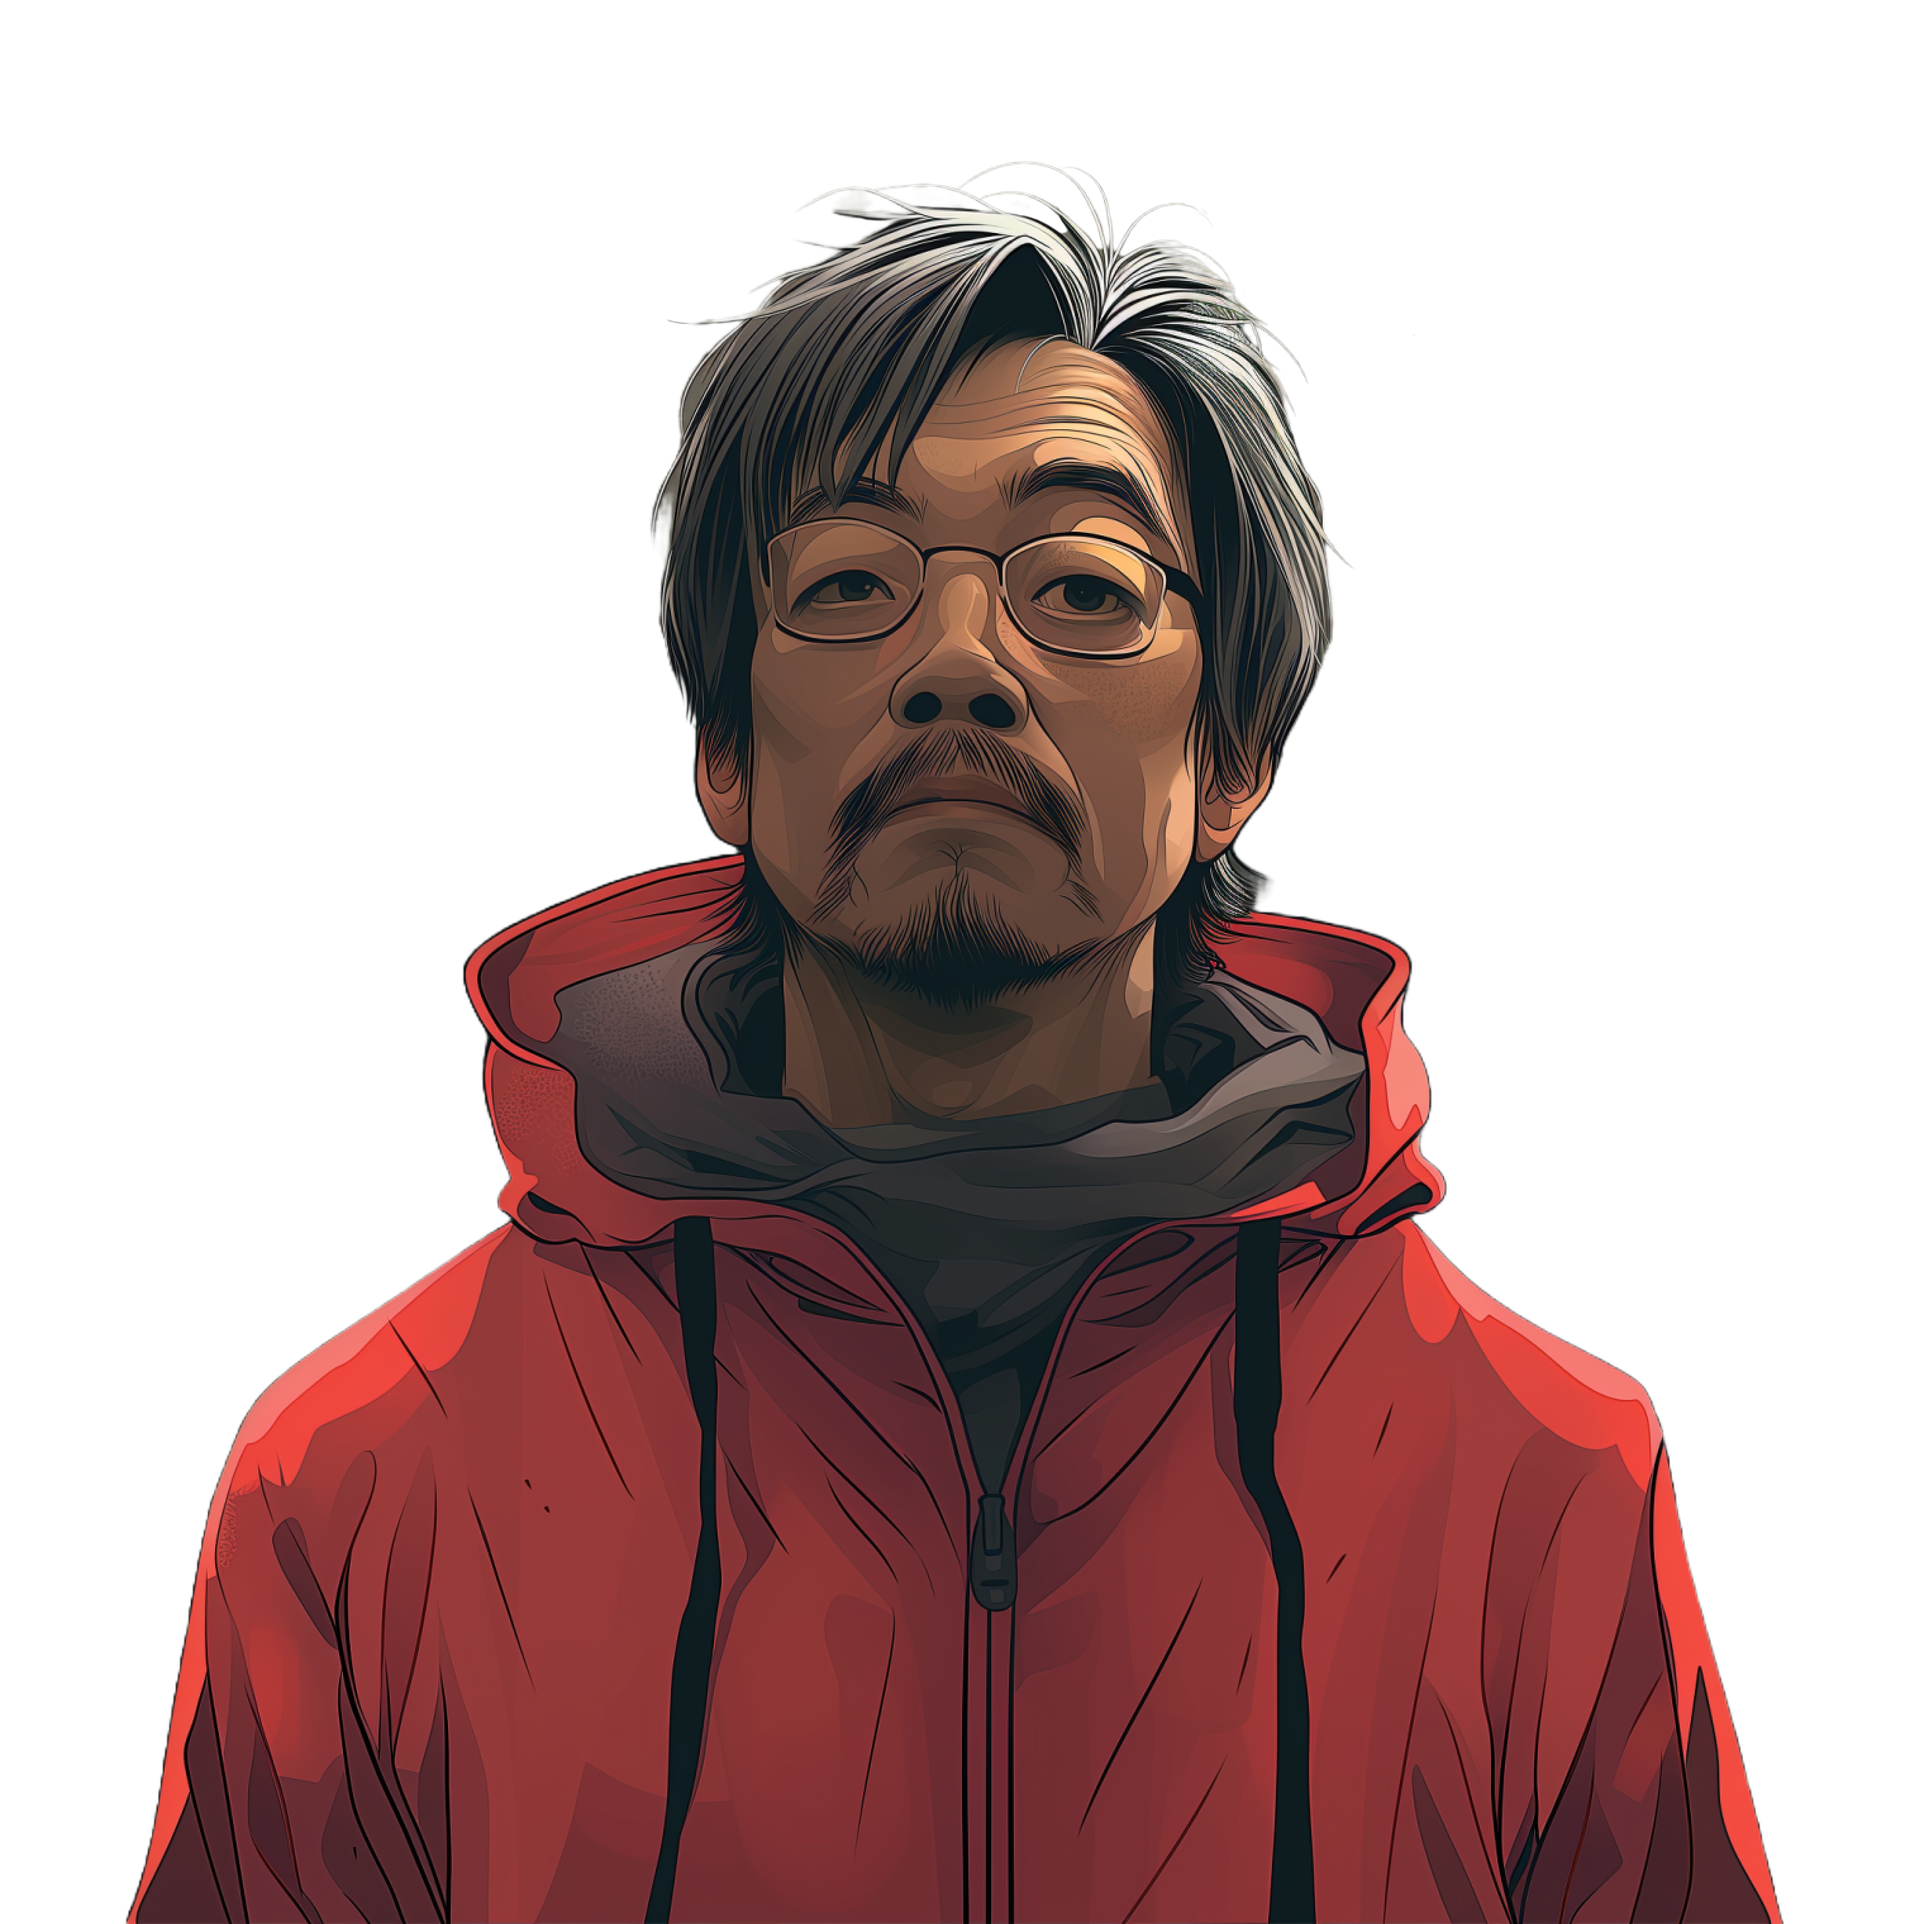
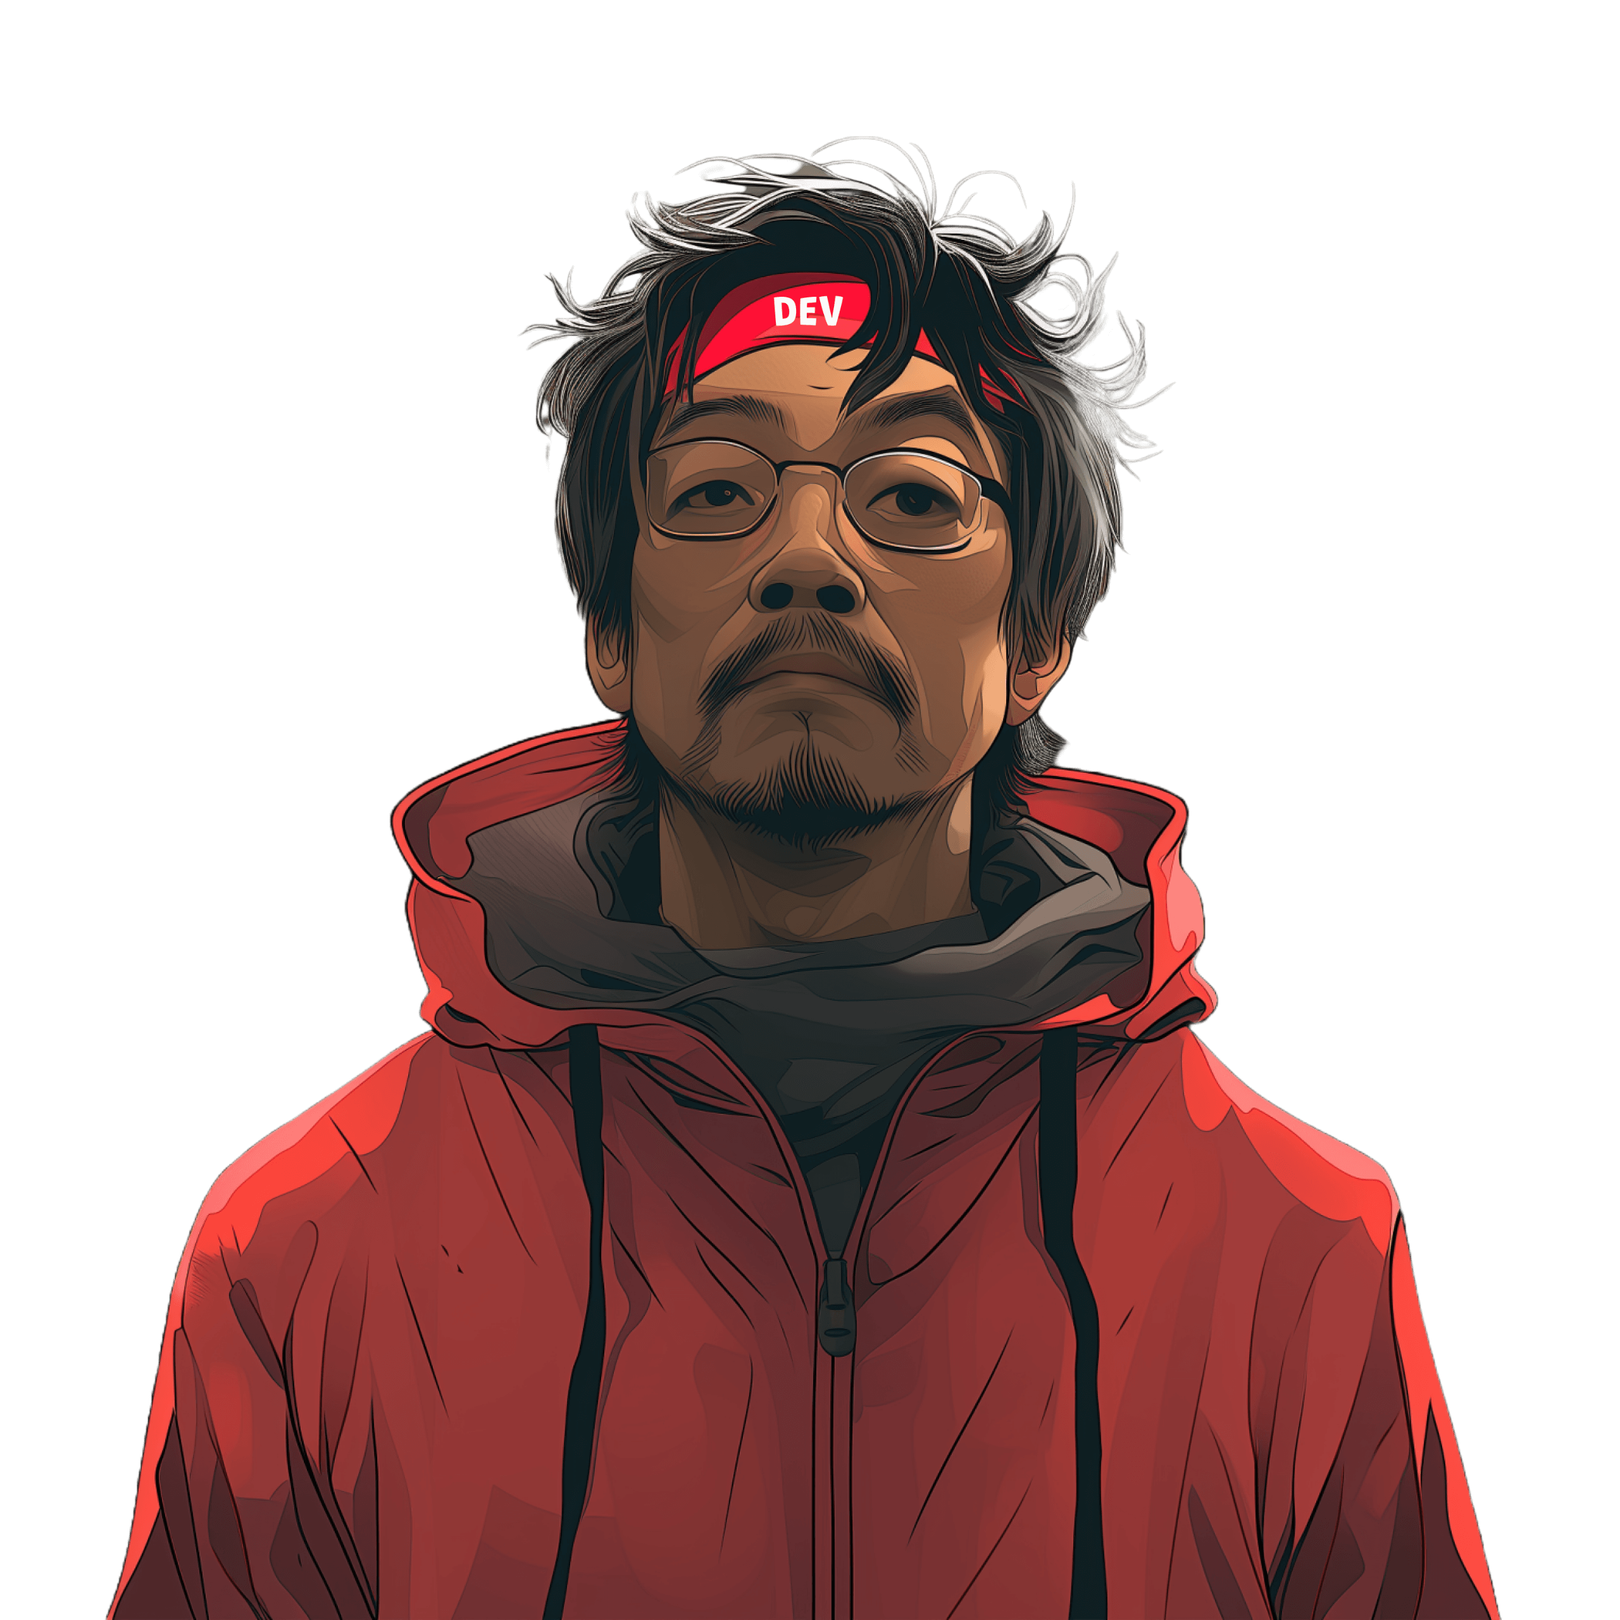
done

diff --git a/index.html b/index.html
@@ -15,20 +15,20 @@
     <!-- css link -->
     <link rel="stylesheet" href="./reset.css" />
     <link rel="stylesheet" href="./style.css" />
-    <title>Cat and Dog</title>
+    <title>dev!!!!!!!!!!!!!!!</title>
   </head>
   <body>
     <!-- site header -->
     <header class="header">
       <div class="header-inner container">
         <a href="./index.html">
-          <img
+          <!-- <img
             class="site-logo"
-            src="./images/logo.png"
+            src="./images/devpic.png"
             alt="site logo"
             width="60"
             height="80"
-          />
+          /> -->
         </a>
         <ul class="header-inner__nav nav">
           <li class="nav-item">
@@ -70,21 +70,8 @@
         <div class="hero-holder">
           <div class="title-holder">
             <p class="hero-welcome">
-              <img
-                class="hero-img"
-                src="./images/cat-trace.svg"
-                alt="dog trace"
-                width="45"
-                height="45"
-              />
               Where
-              <img
-                class="hero-img"
-                src="./images/dog-trace.svg"
-                alt="dog trace"
-                width="45"
-                height="45s"
-              />
+
             </p>
             <h1 class="hero-title">DEV?</h1>
           </div>
@@ -132,7 +119,7 @@
           <div class="about-img-holder" data-aos="fade-up">
             <img
               class="about-img"
-              src="./images/logo.png"
+              src="./images/devpic.png"
               alt="about img"
               width="300"
               height="300"
@@ -140,7 +127,7 @@
           </div>
           <div class="about-holder" data-aos="fade-up">
             <h2 class="about-title">
-              about <span class="about-title-add">hemule</span>
+              What about <span class="about-title-add">dev?</span>
             </h2>
             <p class="about-text">
               Many may ask, what is Myro? Myro is the name of the dog owned by
@@ -233,13 +220,13 @@
     <!-- site footer -->
     <footer class="footer">
       <div class="footer-container container">
-        <img
+        <!-- <img
           class="footer-img"
-          src="./images/logo.png"
+          src="./images/devpic.png"
           alt="site logo"
           width="60"
           height="80"
-        />
+        /> -->
         <ul class="header-inner__nav nav">
           <li class="nav-item">
             <a class="nav-item__link" href="#">
